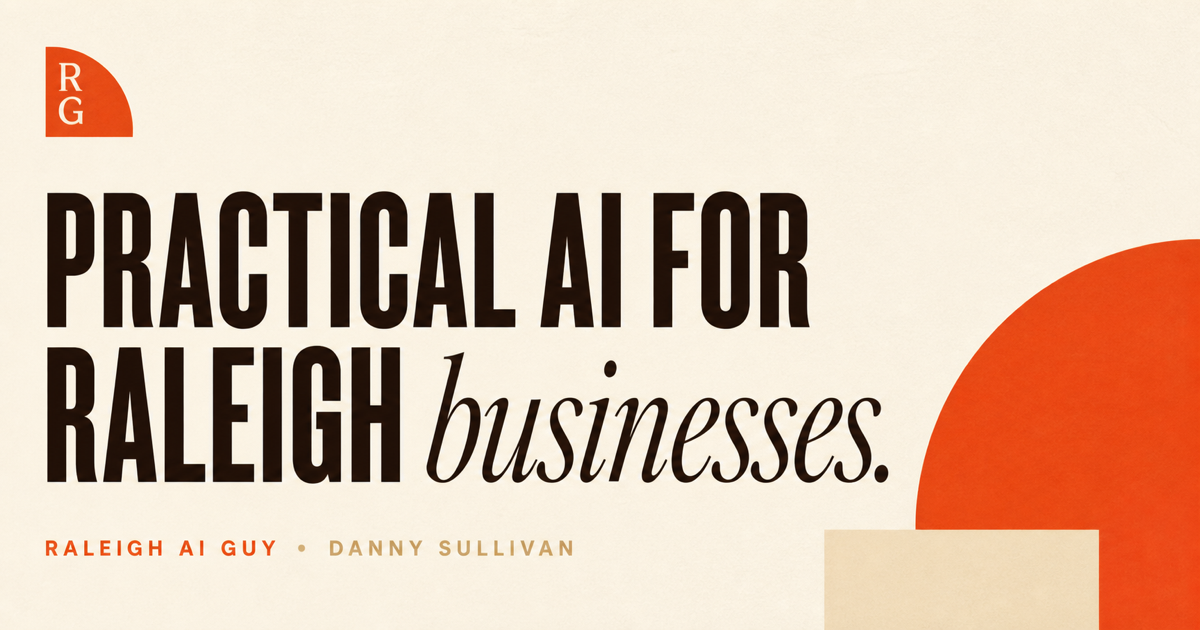
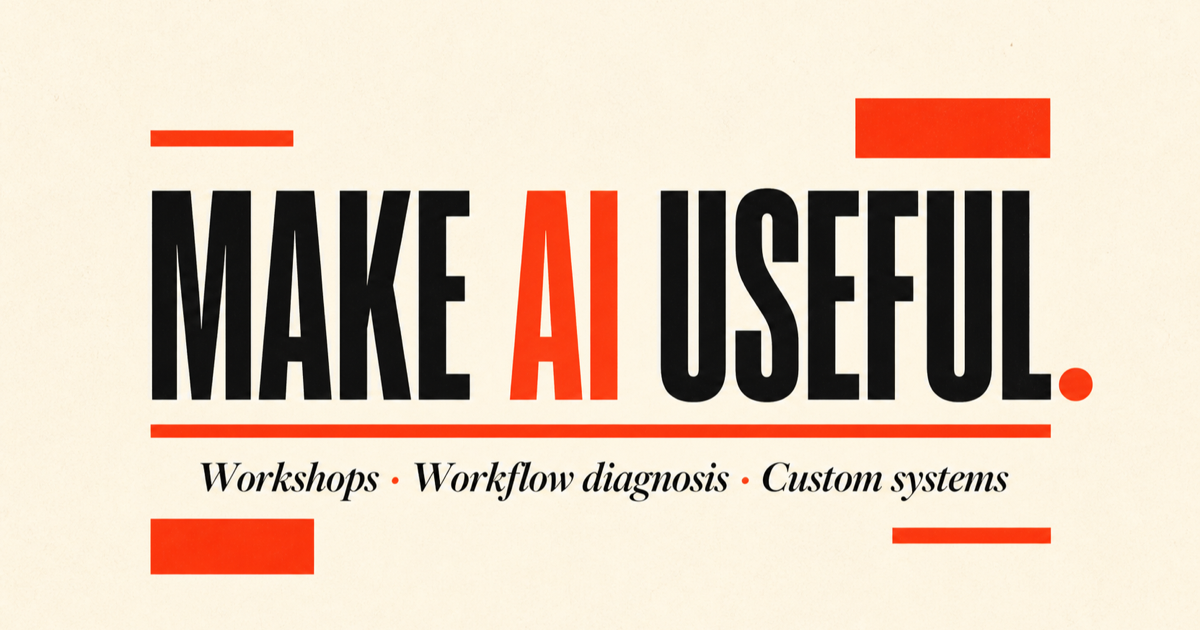
Update site typography and brand artwork

diff --git a/src/styles/global.css b/src/styles/global.css
@@ -6,6 +6,7 @@
 @theme {
   --font-sans: "Instrument Sans", sans-serif;
   --font-serif: "Newsreader", serif;
+  --font-display: "League Gothic", "Arial Narrow", sans-serif;
   --font-mono: "IBM Plex Mono", monospace;
   --color-white: #fffdf7;
   --color-black: #16201b;
@@ -33,7 +34,7 @@
   --brand-line: rgb(22 32 27 / 14%);
   --brand-line-strong: rgb(22 32 27 / 30%);
   --brand-form: #fffdf7;
-  --brand-orange: #e65f36;
+  --brand-orange: #ff3218;
   --brand-forest: #163d32;
   --brand-moss: #7b8b72;
   --brand-yellow: #eee4cf;
@@ -60,7 +61,19 @@ body {
 
 h1, h2, h3, h4 { text-wrap: balance; }
 
-.font-editorial { font-family: "Newsreader", serif; }
+.font-editorial {
+  font-family: "League Gothic", "Arial Narrow", sans-serif;
+  font-stretch: condensed;
+  font-weight: 400;
+  letter-spacing: -.018em;
+  text-transform: uppercase;
+}
+.font-editorial em {
+  font-family: "Newsreader", serif;
+  font-style: italic;
+  letter-spacing: -.04em;
+  text-transform: none;
+}
 .font-utility { font-family: "IBM Plex Mono", monospace; }
 
 .field-label {
